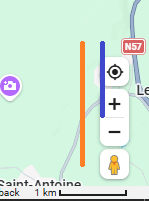
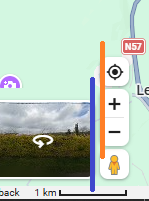
refine area_rightdown_x config definition

diff --git a/usr_get_area_img.py b/usr_get_area_img.py
@@ -58,14 +58,6 @@ class Config(ConfigRegistryMixin, ConfigRecomputeMixin):
         )}
     )
 
-    # another "decision" config
-    AREA_EDGES : bool = field(  # Debug purposes, affects `construct_region()`
-        default = False,
-        metadata = {ConfigTkMeta.KEY: ConfigTkMeta(
-            doc="Draw edges for individual areas combined within a region?"
-        )}
-    )
-
     # The (visible) area should be safely (10px) beside interactive ui elements
     # TODO consider a function to define AREA_REGION
     # using .getBoundingClientRect() to get coordinates of page elements mentioned below through console
@@ -95,7 +87,7 @@ class Config(ConfigRegistryMixin, ConfigRecomputeMixin):
     AREA_RIGHTDOWN_X : int = field(
         default = 1314,
         metadata = {ConfigTkMeta.KEY: ConfigTkMeta(
-            doc="Select rightdown x of area to be captured. From center, right until 10px to '+ -' buttons",
+            doc="Select rightdown x of area to be captured. Place your cursor very close to the left side of the '+ -' buttons, not touching the streetview rectangle",
             xy_read=ConfigTkMeta.READ_X
         )}
     )
@@ -171,6 +163,14 @@ WHAT WILL HAPPEN:
         SCALE_WIDTH = self.SCALE_RIGHTDOWN_XY[0] - self.SCALE_LEFTUP_XY[0]
         SCALE_HEIGHT = self.SCALE_RIGHTDOWN_XY[1] - self.SCALE_LEFTUP_XY[1]
         return (*self.SCALE_LEFTUP_XY, SCALE_WIDTH, SCALE_HEIGHT)
+
+    # another "decision" config
+    AREA_EDGES : bool = field(  # Debug purposes, affects `construct_region()`
+        default = False,
+        metadata = {ConfigTkMeta.KEY: ConfigTkMeta(
+            doc="Draw edges for individual areas combined within a region? Debug purposes"
+        )}
+    )
 
     # A 3x2 region (35 areas) was made in 85 seconds, which gives around 2.5 seconds for one area. Calculating ETA is now possible.
     AREA_TIME_SEC = 3.2  # TODO replace with dynamic time estimation??

diff --git a/tk_app_frames/edit_configs.py b/tk_app_frames/edit_configs.py
@@ -71,7 +71,7 @@ class EditConfigs(BasicFrame):
 
         # Buttons to work with config files and the currently used config itself.
 
-        self._last_used_path_to_config = "default_1366x768_config.json"
+        self._last_used_path_to_config = "config.json"
 
         tk.Button(self.footer, text=" ? ", command=lambda:
             messagebox.showinfo(
